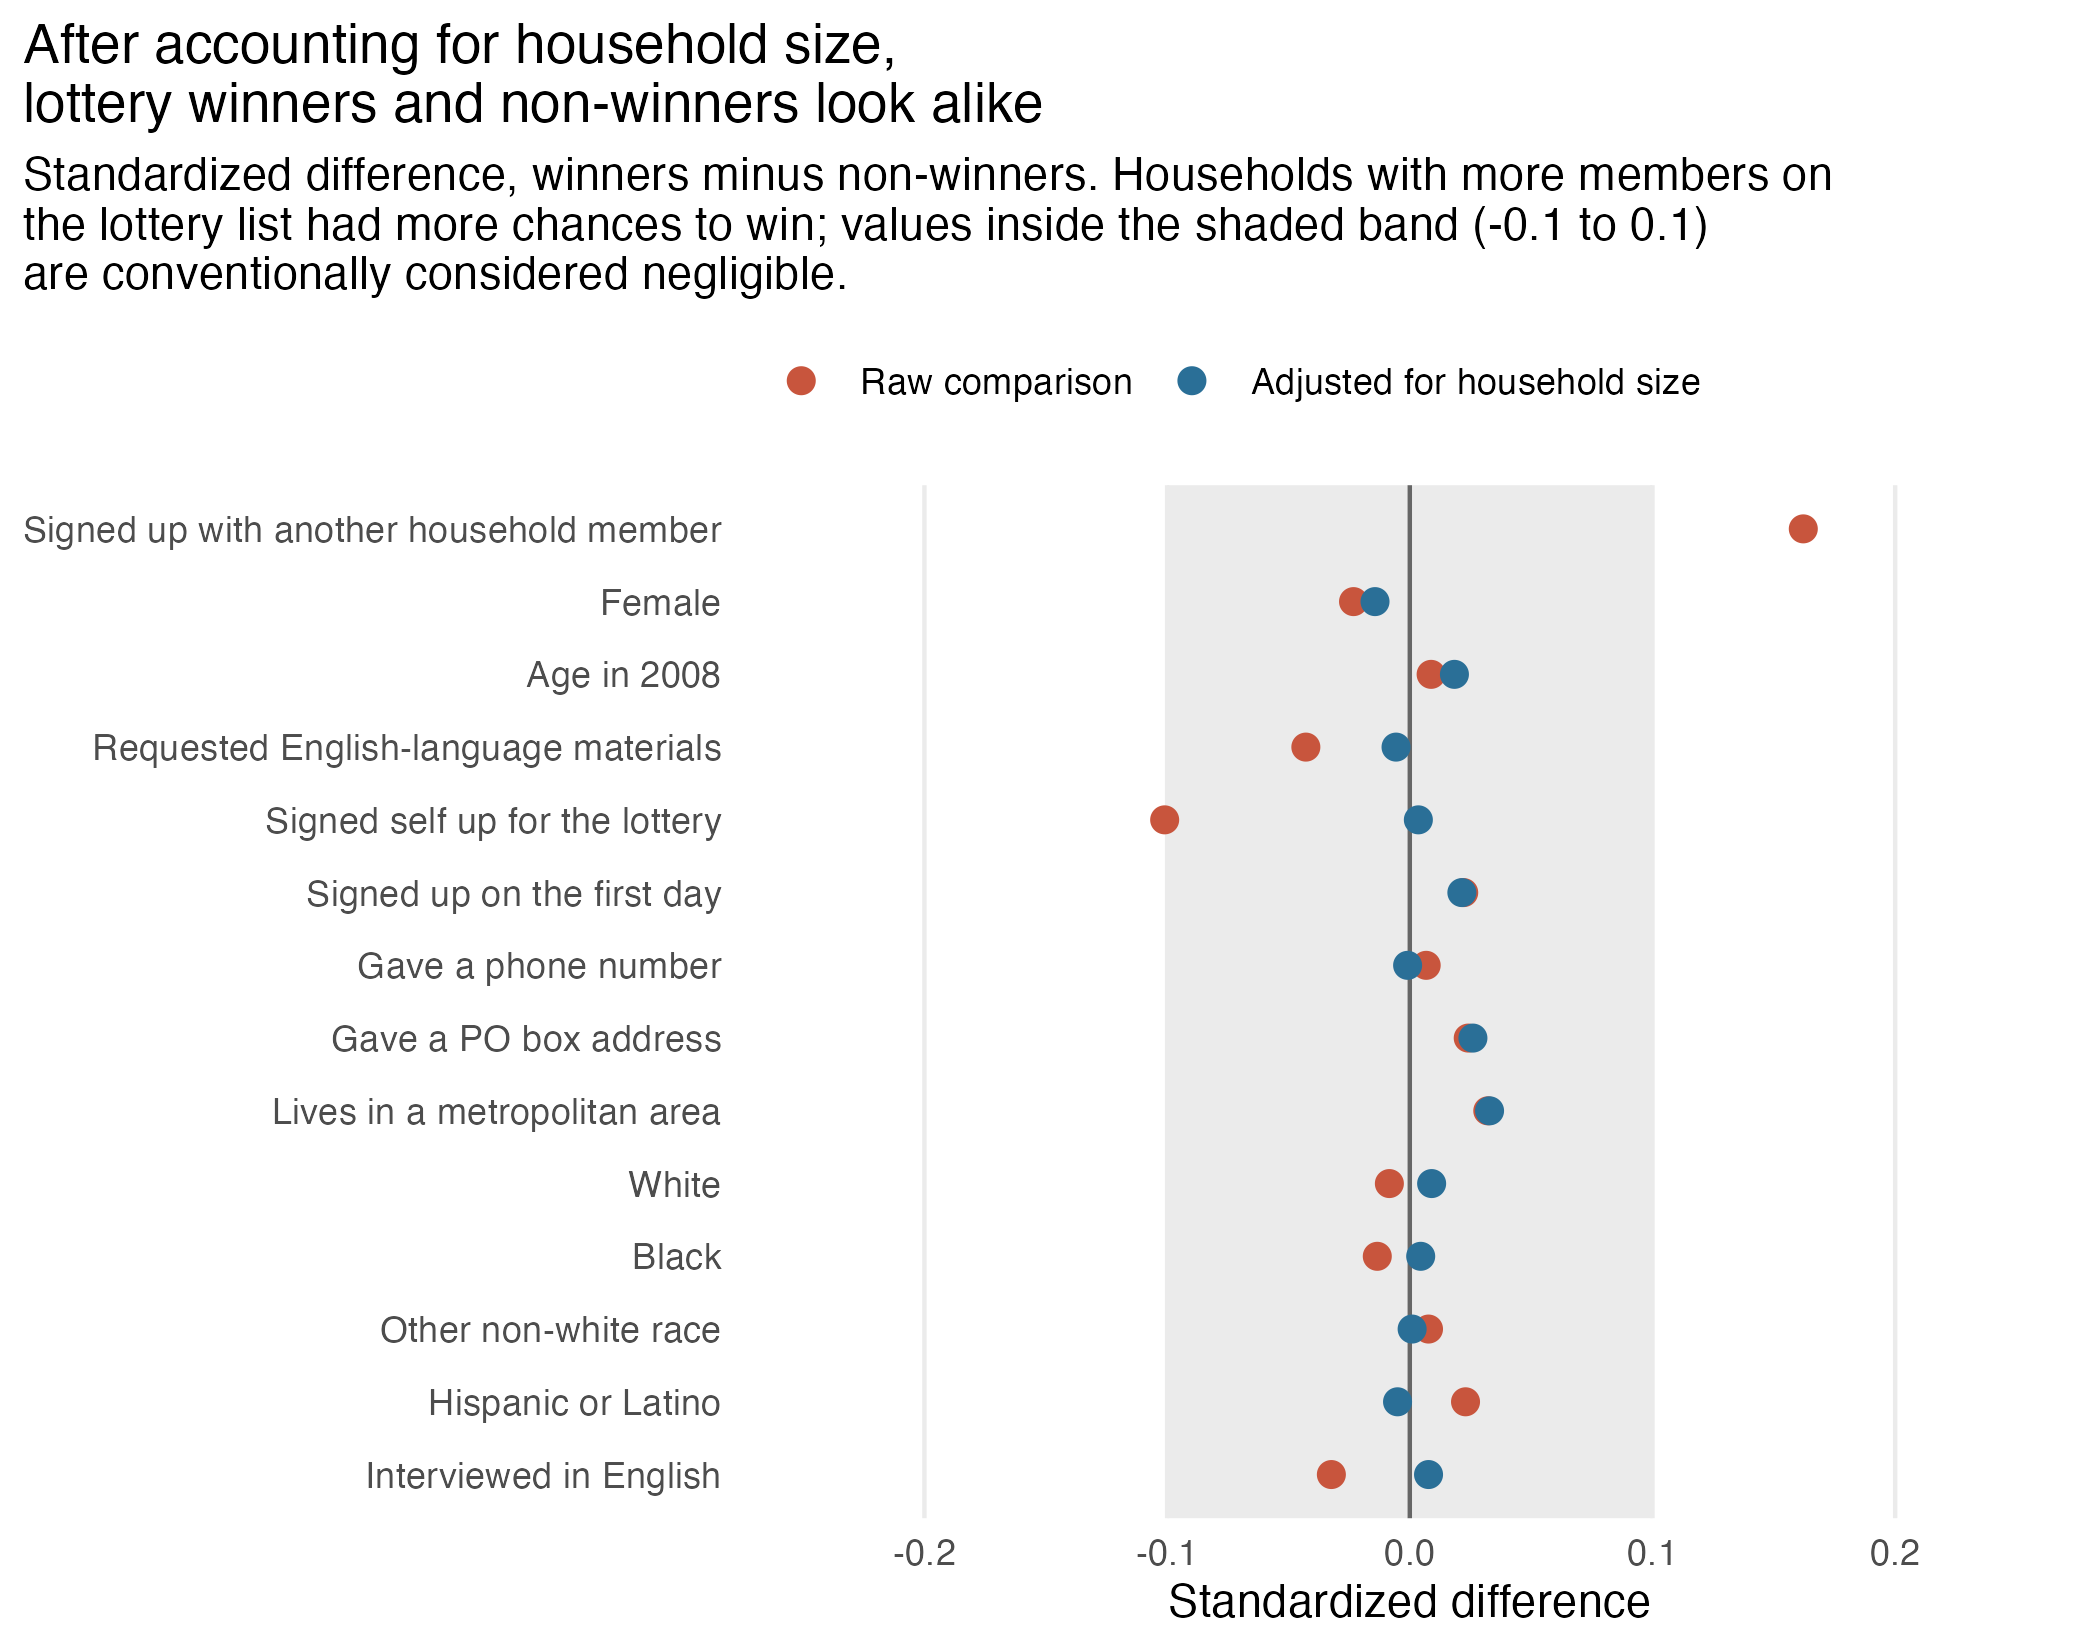
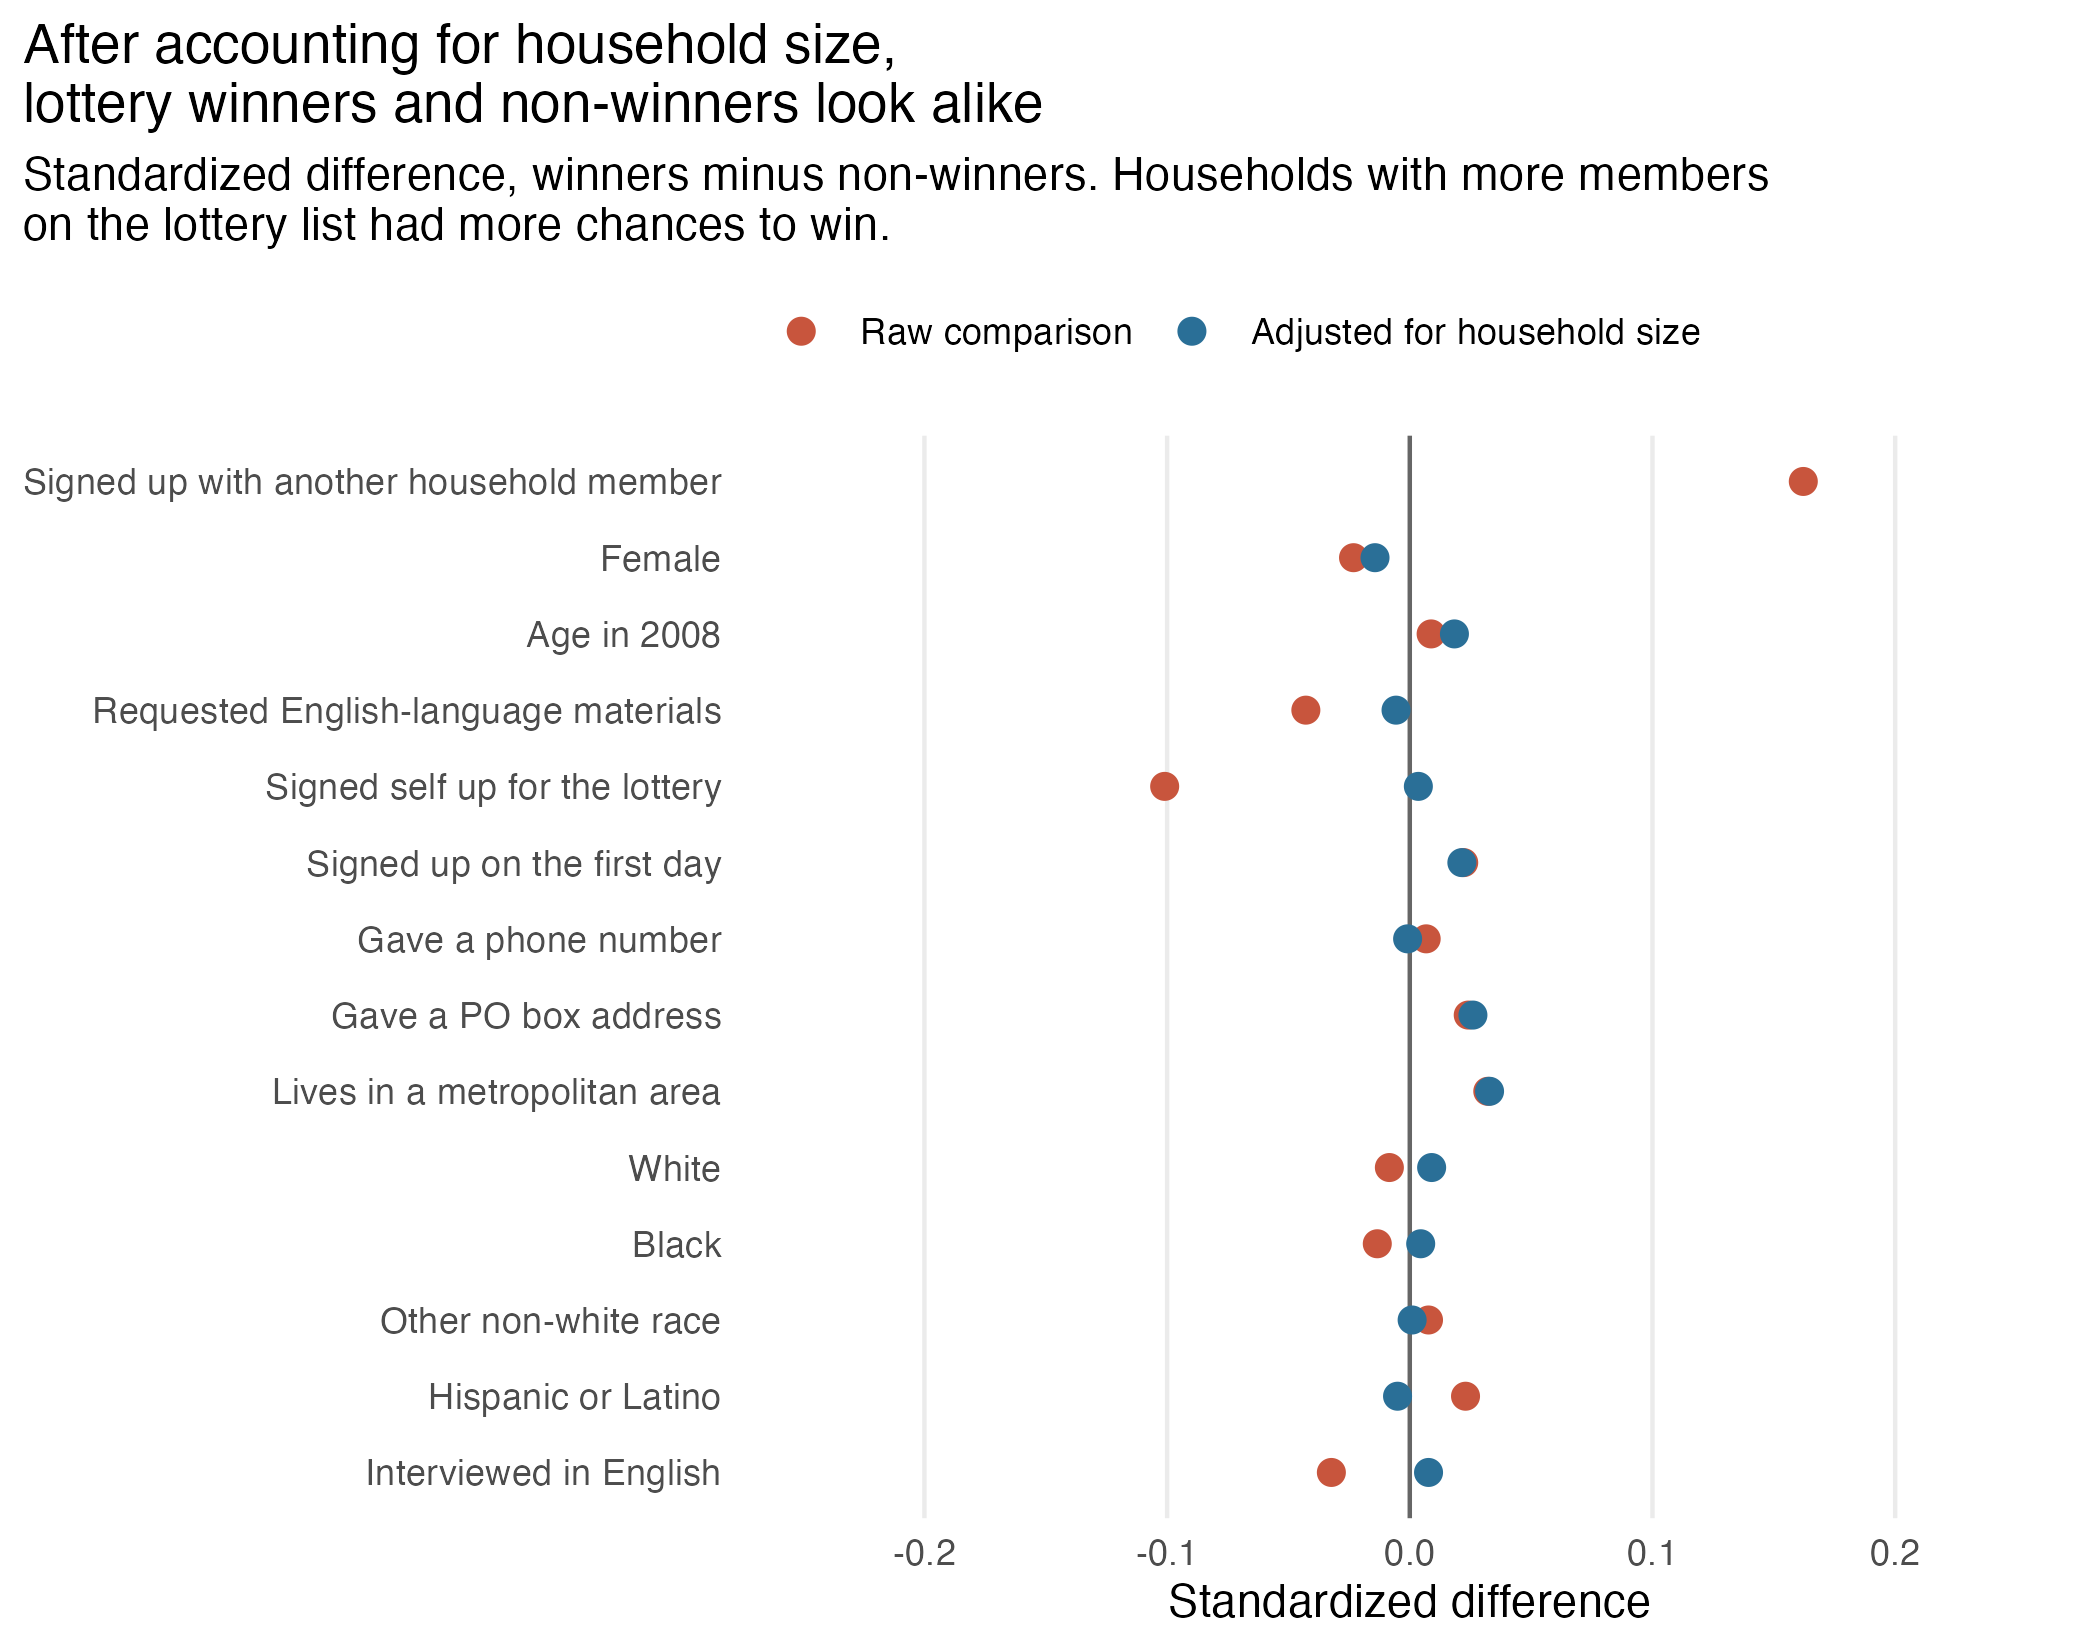
Simplify figures and verify replication against the published paper

diff --git a/README.md b/README.md
@@ -21,13 +21,14 @@ Data citation: Oregon Health Insurance Experiment, public-use data. National Bur
 
 ## Replication check
 
-Effect of Medicaid coverage (two-stage least squares, lottery as instrument), percentage points:
+Percentage points, with 95% confidence intervals. Published values are from the paper's text and Tables 2 and 4.
 
-| Outcome | This analysis | Baicker et al. (2013) |
+| Estimate | This analysis | Baicker et al. (2013) |
 |---|---|---|
-| Lottery's effect on Medicaid enrollment | 24.1 | *to confirm (Table 2)* |
-| Elevated blood pressure | −1.35 (−7.17, 4.48) | not significant; *exact estimate to confirm* |
-| Positive depression screen | −9.15 (−16.70, −1.60) | −9.15 (−16.70, −1.60) |
-| Catastrophic medical spending | −4.48 (−8.26, −0.69) | −4.5; *CI to confirm* |
+| Lottery's effect on Medicaid enrollment | 24.1 (22.4, 25.9) | 24.1 (22.3, 25.9) |
+| Lottery's effect on exam response | 0.28 (p = 0.86) | 0.28 (p = 0.86) |
+| Effect of Medicaid on elevated blood pressure | −1.35 (−7.17, 4.48) | −1.33 (−7.16, 4.49) |
+| Effect of Medicaid on positive depression screen | −9.15 (−16.70, −1.60) | −9.15 (−16.70, −1.60) |
+| Effect of Medicaid on catastrophic medical spending | −4.48 (−8.26, −0.69) | −4.48 (−8.26, −0.69) |
 
-Control-group rates for depression (30.0%) and catastrophic spending (5.5%) match the published values.
+Control-group rates (16.3% elevated blood pressure, 30.0% depression, 5.5% catastrophic spending) also match. The blood pressure estimate differs from the published value by 0.02 points; the source of the gap is not identified.
